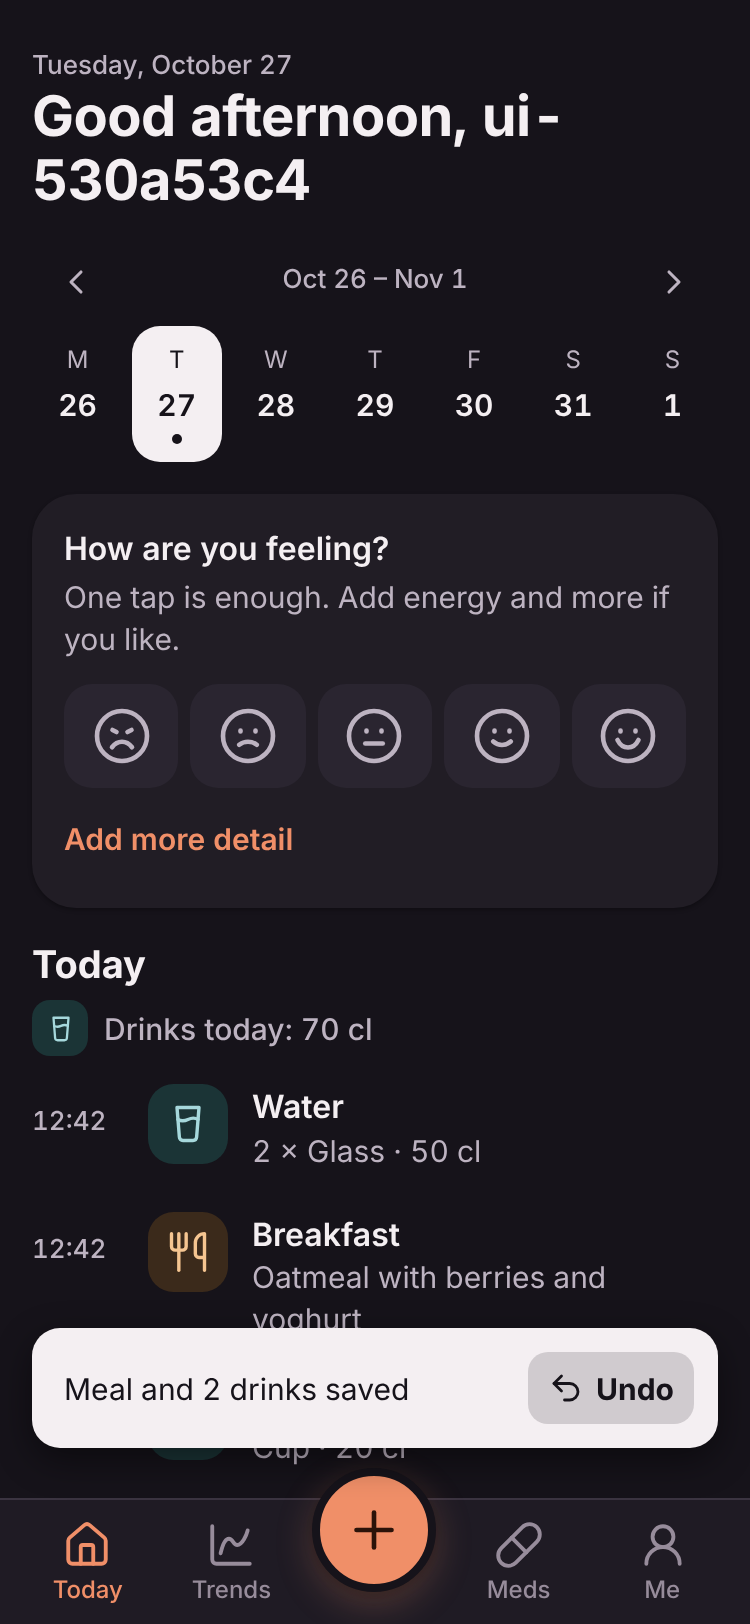
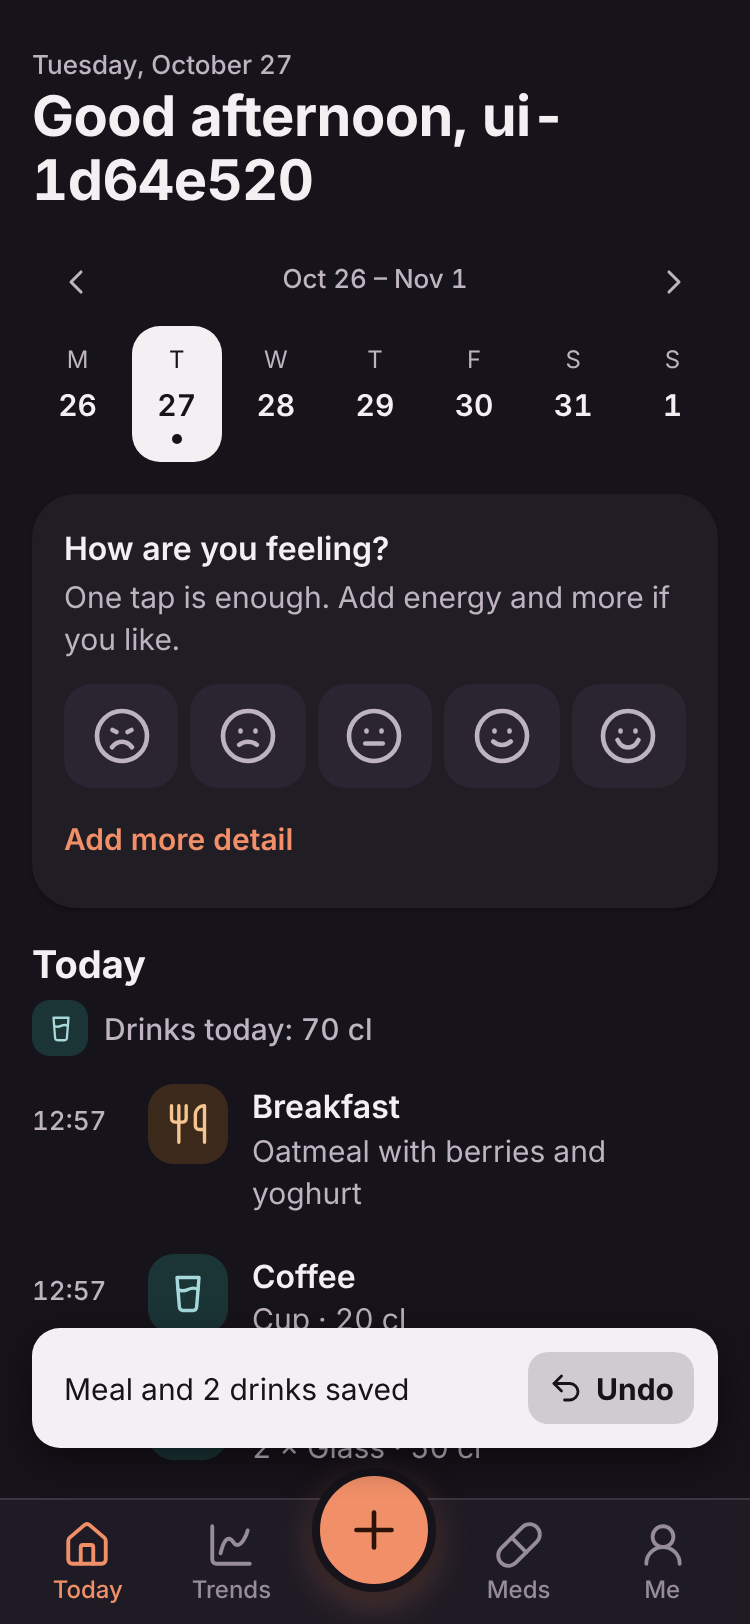
fix: list a meal before its drinks at the same time (#119)
Also use the drink icon on the meal's drink pills and update CLAUDE.md.

Claude-Session: https://claude.ai/code/session_01X7tEoUoGVUHfJ85xsB66RP

diff --git a/src/lib/records/codec.ts b/src/lib/records/codec.ts
@@ -73,11 +73,19 @@ type Timed = StoredRecord<TimedPayload>;
 
 const isTimed = (r: StoredRecord): r is Timed => hasAt(r.payload);
 
+/** At the same time, a meal comes before the drinks logged with it. */
+const sameTimeRank = (r: Timed) => (r.payload.type === 'food' ? 0 : 1);
+
 /** Records of one local day, earliest first. */
 export function recordsForDay(all: Iterable<StoredRecord>, day: string): Timed[] {
 	const out: Timed[] = [];
 	for (const r of all) if (isTimed(r) && dayKey(r.payload.at) === day) out.push(r);
-	return out.sort((a, b) => instant(a.payload.at) - instant(b.payload.at) || a.id.localeCompare(b.id));
+	return out.sort(
+		(a, b) =>
+			instant(a.payload.at) - instant(b.payload.at) ||
+			sameTimeRank(a) - sameTimeRank(b) ||
+			a.id.localeCompare(b.id)
+	);
 }
 
 /** Day keys in [from, to] (inclusive, as "YYYY-MM-DD") that have at least one entry. */

diff --git a/src/lib/records/records.test.ts b/src/lib/records/records.test.ts
@@ -191,6 +191,24 @@ describe('day selectors', () => {
 		expect(recordsForDay(all, '2026-10-20')).toEqual([]);
 	});
 
+	it('lists a meal before the drinks logged at the same time', () => {
+		const at = '2026-10-18T08:10:00+02:00';
+		const same = [
+			rec('0-drink', {
+				v: 1,
+				type: 'drink',
+				at,
+				drink: 'Water',
+				size: 'Cup',
+				sizeMl: 150,
+				count: 1,
+				totalMl: 150
+			} as Payload),
+			rec('z-meal', { v: 1, type: 'food', at, meal: 'breakfast', text: 'Oatmeal', tags: [] })
+		];
+		expect(recordsForDay(same, '2026-10-18').map((r) => r.id)).toEqual(['z-meal', '0-drink']);
+	});
+
 	it('marks days with entries inside a range', () => {
 		const days = daysWithEntries(all, '2026-10-12', '2026-10-18');
 		expect([...days]).toEqual(['2026-10-18']);

diff --git a/src/lib/components/MealSheet.svelte b/src/lib/components/MealSheet.svelte
@@ -222,7 +222,7 @@
 						type="button"
 						class="what-btn"
 						aria-label={t('meal.drinks.change', { drink: text })}
-						onclick={() => openDrink(d.key)}><Icon name="droplets" size={16} /><span>{text}</span></button
+						onclick={() => openDrink(d.key)}><Icon name="glass" size={16} /><span>{text}</span></button
 					>
 					<button
 						type="button"

diff --git a/CLAUDE.md b/CLAUDE.md
@@ -268,7 +268,7 @@ Remind the owner of these when planning the next feature milestone; don't build 
 
 ## Current status
 
-_Last updated: 2026-10-26 (handover). Released: **1.2.0**; **M8 offline-first is done** (#110 unlock offline, #111 outbox and "not synced yet", #115 photos offline); the Pi upgrade is the owner's. No open PRs; only issue #82 (FHIR idea) is open. **Next session:** ask the owner what comes next: dependent profiles and handover (parked; mockup `design/dependents.html` with 10 unanswered decisions), backlog items (built-in medicine name list, FHIR export #82), or family feedback on offline use. Versioning: new features → 1.x.0, fixes → 1.x.y. Open: family feedback on the footprint sole (keep, or flip `SOLE_TOES_UP`); the leftover branch `merge/1.1.0-into-develop` (closed #114) can be deleted on GitHub. Before any public release: rename (`brand.config.json`), a lawyer's look at the consent and privacy wording, storage quota (backlog)._
+_Last updated: 2026-10-27. Released: **1.2.0** (M8 offline-first done). **In review:** `feature/meal-drinks` (#119, drinks added from the Meal sheet, → 1.3.0). Open issues: #82 (FHIR idea), #119. **Next session:** check the #119 PR; then ask the owner what comes next: dependent profiles and handover (parked; mockup `design/dependents.html` with 10 unanswered decisions), backlog items (built-in medicine name list, FHIR export #82), or family feedback on offline use. Versioning: new features → 1.x.0, fixes → 1.x.y. Open: family feedback on the footprint sole (keep, or flip `SOLE_TOES_UP`); the leftover branch `merge/1.1.0-into-develop` (closed #114) can be deleted on GitHub. Before any public release: rename (`brand.config.json`), a lawyer's look at the consent and privacy wording, storage quota (backlog)._
 
 
 
@@ -368,6 +368,7 @@ _Last updated: 2026-10-26 (handover). Released: **1.2.0**; **M8 offline-first is
 - **`feature/naps` (merged #85):** naps are their own `sleep` records (`kind: 'main' | 'nap'`, absent = main; legacy `naps` list converted quietly per device, `src/lib/records/naps.ts` + `napsConvert.ts`, deterministic ids); Sleep sheet gets "Main sleep | Nap" (picked from the time, `sleepKindByHour`), Nap timeline text and a new nap icon (stacked z's), Trends and the doctor report draw naps stacked on top of the main sleeps with a plain naps line; `tests/e2e/naps.spec.ts`; screenshots in `docs/screenshots/naps/`.
 - **`feature/app-version` (merged #83):** Me → About shows "Version X.Y.Z" (`__APP_VERSION__` defined in `vite.config.ts` from package.json; declared in `src/app.d.ts`); screenshots in `docs/screenshots/app-version/`.
 - **`feature/headache-still-there` (#89, merged #92):** Today gets a headache card for the most recent open headache (headache entry without `stopped`, started in the last 2 days, even when other pain was logged after it): "Still there" writes the new optional `headache.lastSeen` (hour) on the same entry and rests the card 3 hours, "It's gone" expands in place ("When did it stop?": Now, up to 3 earlier hours, "Earlier…") and writes `headache.stopped` (ending an ongoing episode too), "Not now" hides it until tomorrow (entry id + day in localStorage). The general "Still there?" card follows the latest pain entry that is not an open headache (`sameFrom` makes its "Log today" copy that entry). The Pain sheet lost the "Still going" chip (empty Stopped = still going, with a hint; `stillGoing` is legacy and no longer written). The headache report's Stopped row shows the stop, "still going" (inside the 2-day window), or "not recorded · still there at HH:mm", plus "continued from <day>" columns for headaches that run past midnight (`continuedDays` in `src/lib/reports/headache.ts`; paper-form layout counts them as headache days). Pure rules in `src/lib/records/headacheStill.ts`, writes in `headacheActions.ts`; CSV gets `headache_last_seen`; `tests/e2e/headache-still.spec.ts`; screenshots in `docs/screenshots/headache-still/`.
+- **`feature/meal-drinks` (#119, in review):** `DrinkForm.svelte` holds the drink form (used by `DrinkSheet.svelte` and the new `MealDrinkSheet.svelte`, which opens on top of the meal with "Add to meal"); `MealSheet.svelte` gets "Drinks with this meal" pills (new meals only); `LogSheet.svelte` gets `alsoSave` / `alsoSavedText` (extra records saved after the entry, one Undo for all); at the same minute a meal sorts before other entries (`recordsForDay`); `tests/e2e/meal-drinks.spec.ts`; screenshots in `docs/screenshots/meal-drinks/`.
 - **Promised to the owner:** report any change to the Pi agreement; ask about a staging copy on the Pi (Q4) only if it becomes
   relevant. The storage quota stays in the backlog ("much later").
 - **`feature/gdpr-docs` (merged #97):** operator templates in `docs/gdpr/` (privacy notice with the 13+ line, record of processing, DPIA, breach checklist, transfers note).
